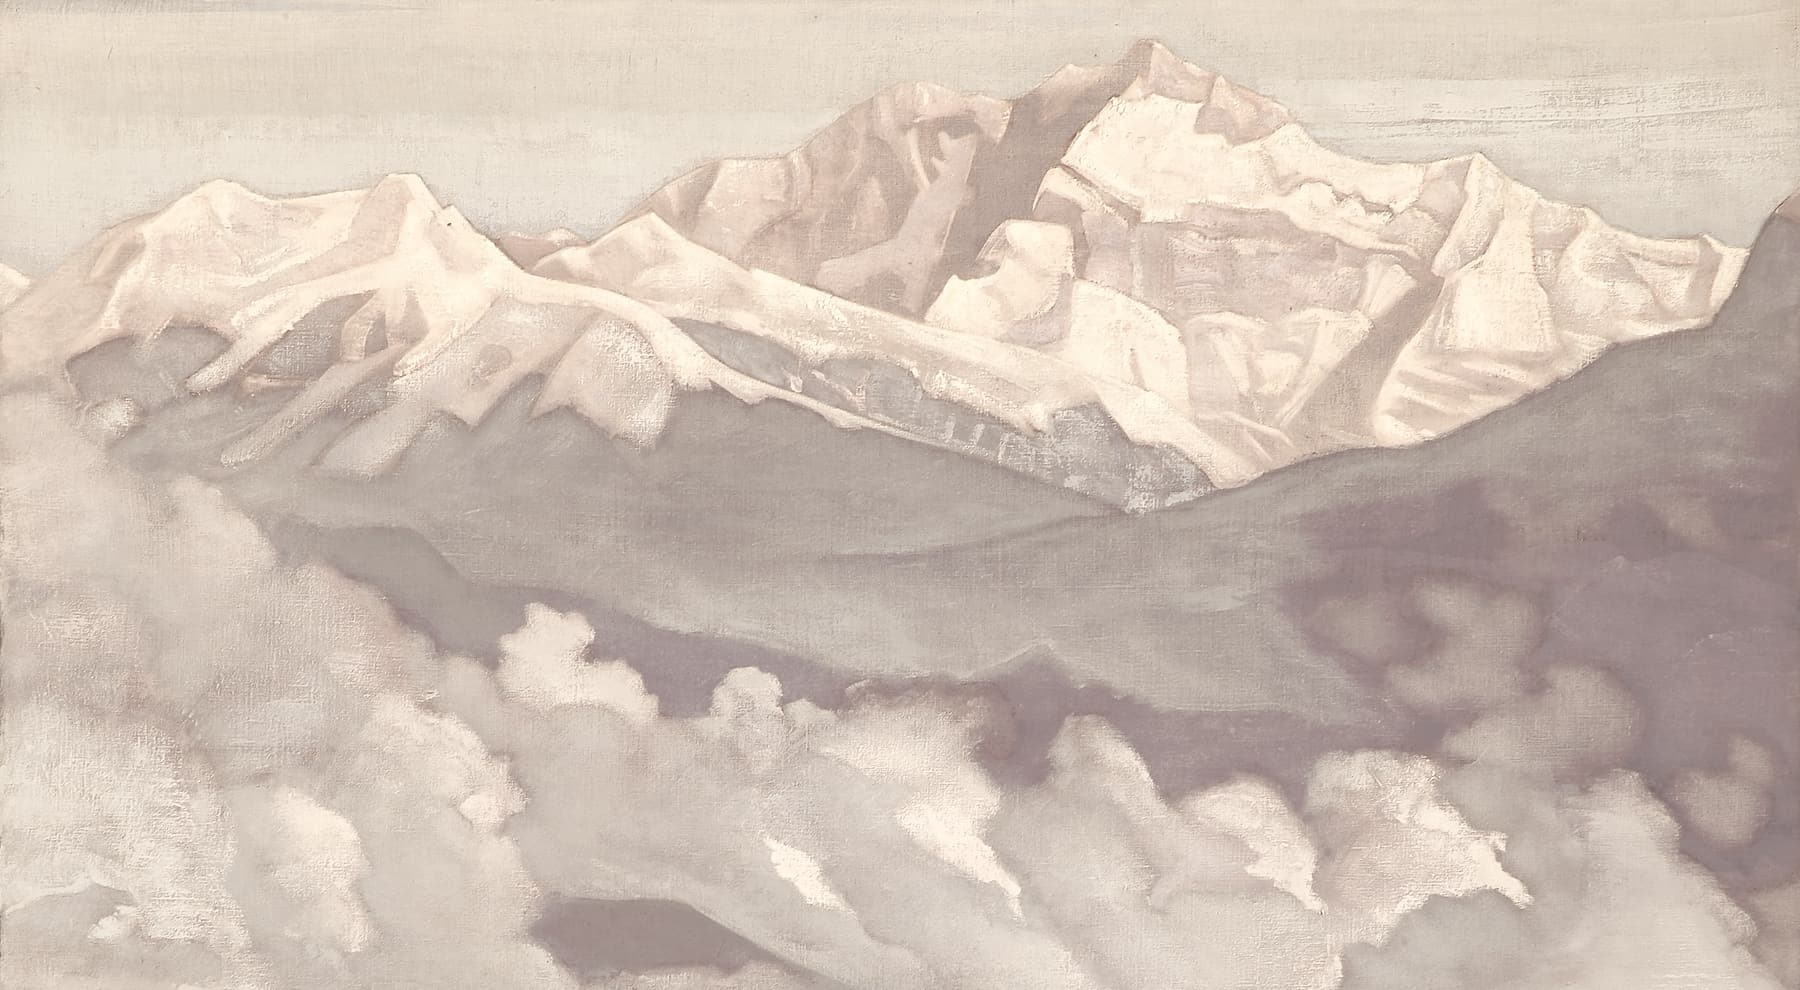
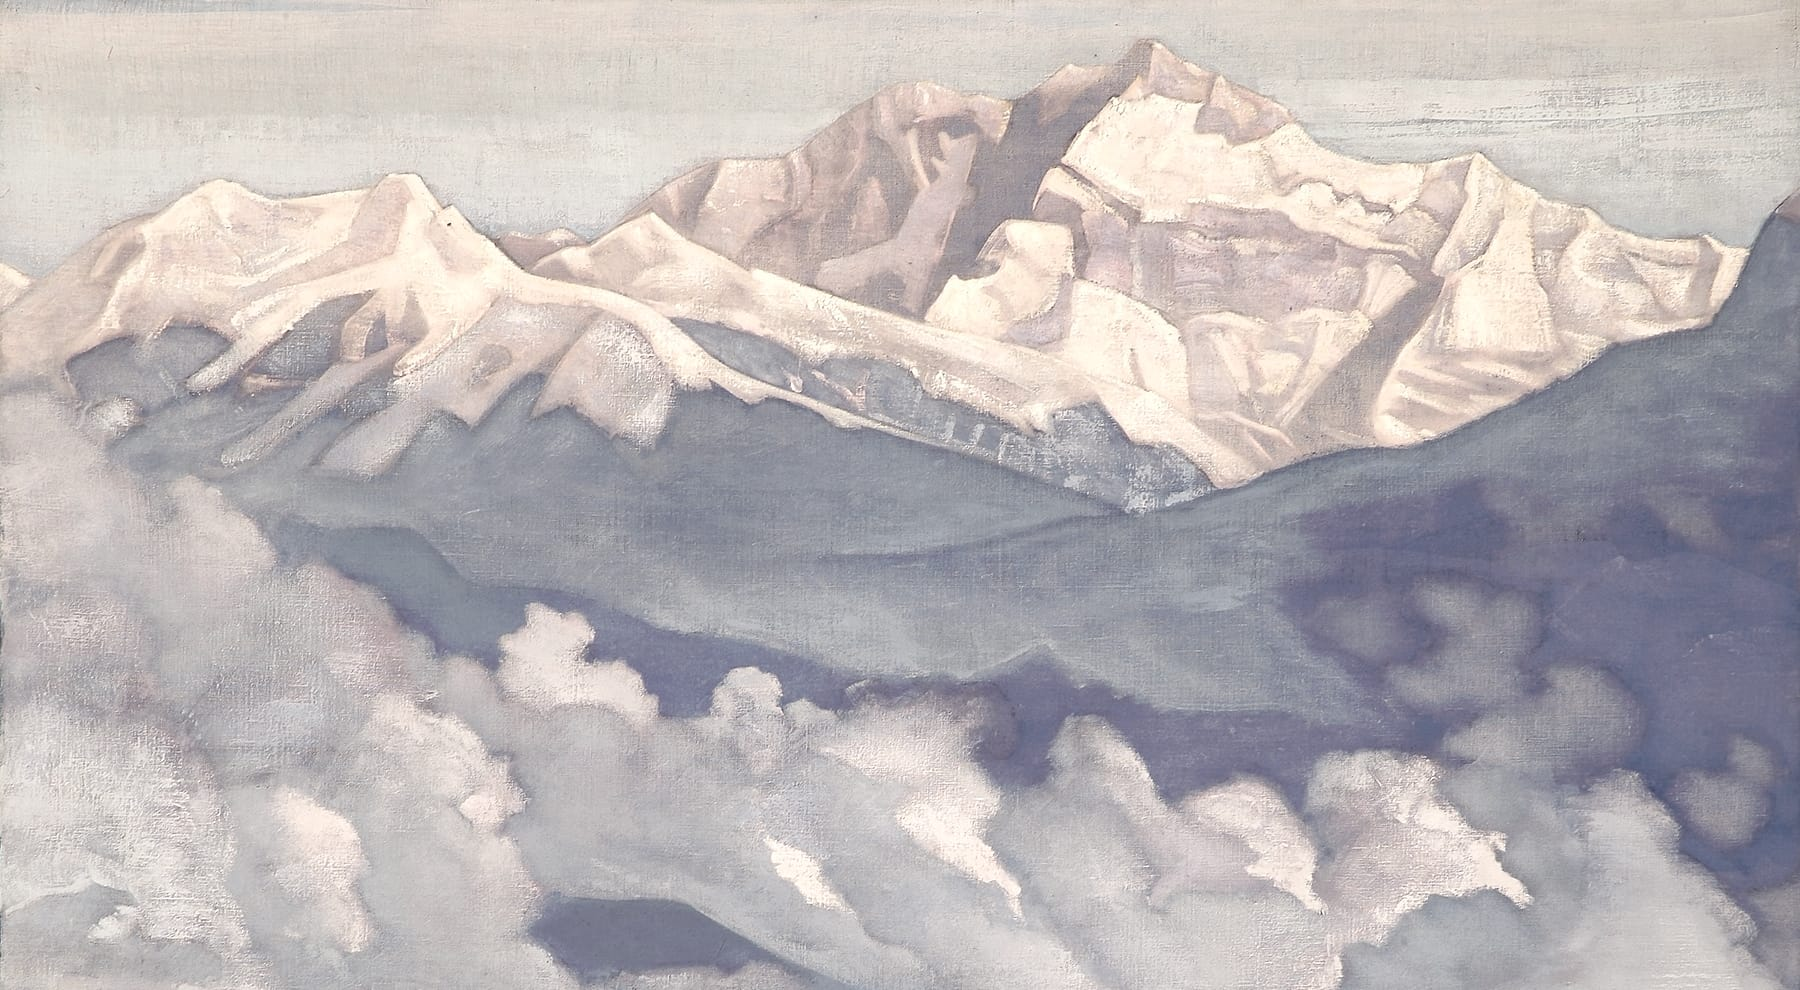
Hero mountains: keep the alpenglow, give them the right side, sunrise on load
- Lighter grade on "Pearl of Searching" keeps the pink morning light on
  the snow and the contrast of the peaks, softened toward the brand tones
- The painting fills the right two-thirds from just below the header, so
  the whole summit shows, and fades into the page on its left, top and
  bottom edges; the paper wash over the peaks is gone
- A faint morning glow sits behind the peaks
- On load the peaks move from cool pre-dawn tones into their morning glow
  over about three seconds (off for reduced motion)
- Phones: the painting runs full width below the words

diff --git a/css/site.css b/css/site.css
@@ -367,27 +367,35 @@ figure {
   padding: calc(var(--header-h) + 88px) 0 44px;
 }
 
+/* The mountains own the right side, from just below the header, and melt into the page */
 .hero-art {
   position: absolute;
-  inset: 0;
+  top: calc(var(--header-h) + 8px);
+  right: 0;
+  bottom: 0;
   z-index: -2;
-  width: 100%;
-  height: 100%;
+  width: 66%;
+  height: calc(100% - var(--header-h) - 8px);
   object-fit: cover;
-  object-position: 60% 30%;
-  -webkit-mask-image: linear-gradient(180deg, #000 0%, #000 72%, transparent 100%);
-  mask-image: linear-gradient(180deg, #000 0%, #000 72%, transparent 100%);
+  object-position: 58% 0%;
+  -webkit-mask-image: linear-gradient(90deg, transparent 0%, #000 30%), linear-gradient(180deg, transparent 0%, #000 10%, #000 62%, transparent 100%);
+  -webkit-mask-composite: source-in;
+  mask-image: linear-gradient(90deg, transparent 0%, #000 30%), linear-gradient(180deg, transparent 0%, #000 10%, #000 62%, transparent 100%);
+  mask-composite: intersect;
 }
 
 /* A paper wash on the left keeps the words calm and readable */
+/* A faint glow of morning light behind the peaks */
 .hero::before {
   content: "";
   position: absolute;
-  inset: 0;
-  z-index: -1;
-  background:
-    linear-gradient(90deg, rgba(251, 248, 243, 0.94) 0%, rgba(251, 248, 243, 0.78) 34%, rgba(251, 248, 243, 0.2) 58%, rgba(251, 248, 243, 0) 72%),
-    linear-gradient(180deg, rgba(251, 248, 243, 0.7) 0%, rgba(251, 248, 243, 0) 22%);
+  top: 6%;
+  right: 8%;
+  z-index: -3;
+  width: 48%;
+  aspect-ratio: 1;
+  border-radius: 50%;
+  background: radial-gradient(circle, rgba(242, 196, 120, 0.22) 0%, rgba(242, 196, 120, 0) 66%);
 }
 
 .hero-copy {
@@ -1451,9 +1459,9 @@ figure {
 
   .hero-copy > :nth-child(5) { animation-delay: 0.4s; }
 
-  /* The painting settles slowly as the page opens */
+  /* Sunrise on the peaks: cool pre-dawn tones warm into morning light, once */
   .hero-art {
-    animation: settle 2.6s cubic-bezier(0.2, 0.6, 0.2, 1) both;
+    animation: dawn 3.2s 0.2s cubic-bezier(0.3, 0, 0.2, 1) both;
   }
 
   .benefits-figure::after {
@@ -1515,10 +1523,15 @@ figure {
   50% { transform: scaleY(1.06); }
 }
 
-@keyframes settle {
+@keyframes dawn {
   from {
-    opacity: 0.6;
-    transform: scale(1.06);
+    opacity: 0.55;
+    filter: saturate(0.25) brightness(0.9) hue-rotate(-12deg);
+    transform: scale(1.03);
+  }
+
+  45% {
+    opacity: 1;
   }
 }
 
@@ -1585,11 +1598,15 @@ figure {
   /* On phones the painting sits below the words, fading in and out */
   .hero-art {
     top: auto;
+    left: 0;
     bottom: 16px;
-    height: 260px;
-    object-position: 62% 35%;
-    -webkit-mask-image: linear-gradient(180deg, transparent 0%, #000 30%, #000 70%, transparent 100%);
-    mask-image: linear-gradient(180deg, transparent 0%, #000 30%, #000 70%, transparent 100%);
+    width: 100%;
+    height: 270px;
+    object-position: 60% 0%;
+    -webkit-mask-image: linear-gradient(180deg, transparent 0%, #000 22%, #000 72%, transparent 100%);
+    -webkit-mask-composite: source-over;
+    mask-image: linear-gradient(180deg, transparent 0%, #000 22%, #000 72%, transparent 100%);
+    mask-composite: add;
   }
 
   .hero::before {
